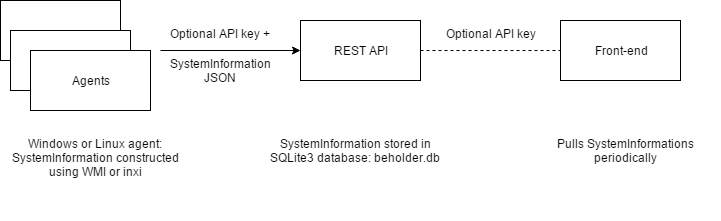
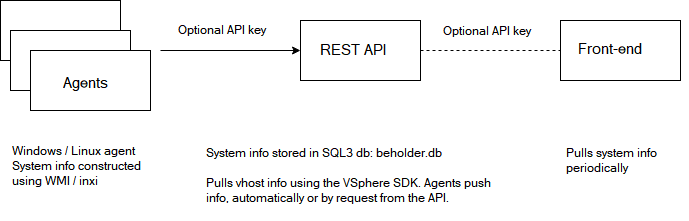
Updated readme, added startAsService.cmd

diff --git a/sizingservers.beholder.agent.linux/Program.cs b/sizingservers.beholder.agent.linux/Program.cs
@@ -16,7 +16,7 @@ namespace sizingservers.beholder.agent.linux {
             if (!_namedMutex.WaitOne()) return;
 
             Console.WriteLine("SIZING SERVERS LAB LINUX BEHOLDER AGENT");
-            Console.WriteLine("  Run this tool as root for dmidecode (fetches memory information) and make sure that ipmitool is installed.");
+            Console.WriteLine("  Run this tool as root for dmidecode (fetches memory information). Make sure that ipmitool and gawk is installed.");
             Console.WriteLine("  Reporting every " + Config.GetInstance().reportEvery + " to " + Config.GetInstance().endpoint);
             Console.WriteLine("  Listening to TCP port " + Config.GetInstance().requestReportTcpPort + " for \"requestreport\\r\\n\"");
             Console.WriteLine();

diff --git a/readme.md b/readme.md
@@ -1,38 +1,43 @@
 # sizingservers.beholder.agent
-    2017 Sizing Servers Lab  
+    2018 Sizing Servers Lab  
     University College of West-Flanders, Department GKG
 
 
 ![flow](readme_img/flow.png)
 
-This project is part of a computer hardware inventorization solution, together with sizingservers.beholder.api and sizingservers.beholder.frontend.
+This project is part of a computer hardware inventorization solution, together with sizingservers.beholder.dnfapi and sizingservers.beholder.frontend.
 
-Agents are installed on the computers you want to inventorize. These communicate with the REST API which stores hardware info. The front-end app visualizes that info.
+Agents are installed on the computers / VMs you want to inventorize. Tools like Puppet or Chef can help you automate this.
+
+An agent communicates with the REST API which stores hardware info. The front-end app visualizes that info. 
 
 ## Languages, libraries, tools, technologies used and overview
 The code is encapsulated in a **Visual Studio 2017** solution. The available agents are console applications.
 
-Communication to the API happens over HTTP. See the sizingservers.beholder.api documentation for an overview.
+Communication to the API happens over HTTP. See the sizingservers.beholder.dnfapi documentation for an overview.
 
 ### Agent selector
 The sizingservers.beholder.agent console app does nothing more than checking the OS and launching the correct agent.
 
-Runs using **dotnet core 2.0**, target framework netcoreapp2.0.
+Runs using **dotnet core 2.x**, target framework netcoreapp2.0.
 
 ### Linux agent
-Reads the standard output of inxi (<https://github.com/smxi/inxi>). Check the SystemInformationRetreiver class to see how this works.
+Reads the standard output of **inxi** (<https://github.com/smxi/inxi>). Check the SystemInformationRetreiver class to see how this works.
 
-Runs using **dotnet core 2.0**, target framework netcoreapp2.0.
+Runs using **dotnet core 2.x**, target framework netcoreapp2.0. Needs **gawk**, **ipmitool** and **dmidecode**.
 
 ### Windows agent
-Uses WMI to gather system info.
+Uses **WMI** to gather system info.
 
 Runs as a Windows executable, target framework net47.
 
 ### Shared functionality
-Contains the agent configuration functionality, the SystemInformations struct and a reporter class to periodically send JSON serialized info (**NewtonSoft.Json**) to the API over HTTP.
+Contains the agent configuration functionality, the SystemInformation class and a reporter class to periodically send JSON serialized info (**NewtonSoft.Json**) to the API over HTTP.
 
-Multi-targets netcoreapp2.0 and net47 to be usable in the Linux- and Windows agent both. Right-click the project and click *Edit...* to check this.
+Contains a request report handler as well: a TCP server that listens at a configurable port for the phrase "requestreport\r\n".  
+This functionality exists so we can have the best of both pushing and polling: push info at startup and once a e.g. day to the API. The API can request system info to determine if the agent is still alive.
+
+Multi-targets netcoreapp2.0 and net47 to be usable in the Linux- and Windows agent both. Open the solution using Visual Studio and right-click the project and click *Edit...* to check this. *Ignore the reference warning. Multi-targeting works as it should.*
 
 ## Build
 You need the dotnet SDK (<https://www.microsoft.com/net/learn/get-started/linux/ubuntu18-04>) to build the source and the .Net framework SDK (<https://www.microsoft.com/en-us/download/details.aspx?id=55168>) if building on Windows.
@@ -63,10 +68,14 @@ Execute *build_Windows.cmd* (or build_Linux.sh on Linux, do not forget chmod +x,
     
 ## Configure
 
+I recommend setting the *report frequency* not to, euhm, frequent. It is important that the agent registers itself to the API at startup, or at a time that the API is available should the API not be running.
+
+Leave the report frequency to the API *PollIntervalInSeconds* setting.
+
 ### sizingservers.beholder.agent.conf
     # URL to the REST API where info will be pushed to.
-    # endpoint http://x.x.x.x:0000
-    endpoint http://localhost:5000
+    # endpoint http://x.x.x.x:0000/systeminfromations
+    endpoint http://localhost/BeholderDnfApi/systeminformations
     
     # API Key
     apiKey <insert a SHA-512 of a piece of text here> 
@@ -78,20 +87,78 @@ Execute *build_Windows.cmd* (or build_Linux.sh on Linux, do not forget chmod +x,
     # reportEvery 5 hours
     reportEvery day
     
+    # Listens to this port for a "requestreport\r\n" from the api.
+    requestReportTcpPort 56575
+    
 Needs to be configured in the Linux and Windows Build folder both.
 
 ## Run
+Tested on Ubuntu 16.04 to 18.04 and Windows 10 / Server 2016.
+
 You need the .NET core runtime (included in the SDK) to run the build: 2.0 at the time of writing.
 
 Execute 
 
-    apt install gawk
+    apt install gawk ipmitool
 
-on Linux.
+on Linux (Ubuntu).
 
 You need the .NET framework on Windows, but you have that by default.
 
-Execute run.cmd or run.sh (do not forget chmod +x).
+Execute **run.cmd** or **run.sh** (do not forget chmod +x). Please note the Linux' dmidecode needs root rights.
 
 BETTER is to run the Linux- or Windows agent as a service.  
-For that you need to use either use **screen** for Linux or **NSSM** for Windows in the Linux or the Windows folder.
+For that you need to use either use **screen** for Linux or **NSSM** / **startAsService.cmd** for Windows in the Linux or the Windows folder.
+
+**startAsService.cmd**, run as administrator!:
+
+    REM 2018 Sizing Servers Lab
+    REM University College of West-Flanders, Department GKG 
+    echo sizingservers.beholder.agent for Windows start as service script
+    echo Please note that this script needs administrator privileges. If not 'ran as administrator', please do so.
+    echo ----------
+    nssm remove sizingservers.beholder.agent confirm
+    nssm install sizingservers.beholder.agent sizingservers.beholder.agent.windows.exe
+    nssm start sizingservers.beholder.agent
+    echo If you get system info on the frontend , everything is working. If not, check if you have set the endpoint in the config correctly or the Windows Event Viewer for errors, if any.
+    
+## Example output
+Arrays are formatted tab-space delimited values, for efficiency: no need to do conversions for dbs, like SQLite3, that cannot handle arrays.
+
+Notice that the *requestReportTcpPort* in in the output so the API knows what port to communicate to.
+
+### Linux agent
+
+    {
+      "hostname": "Dieter-Ubu",
+      "ips": "192.168.20.175\tfe80::250:56ff:fe92:1034",
+      "os": "Ubuntu 18.04 LTS - kernel ",
+      "system": "VMware product - VMware Virtual Platform",
+      "baseboard": "Intel model - 440BX Desktop Reference Platform",
+      "bios": "Phoenix v - 6.00 date - 04/05/2016",
+      "processors": "8 Single core Intel Xeon X7560s (-SMP-)",
+      "memoryModules": "Using dmidecode - you must be root to run dmidecode",
+      "disks": "ID-1 - /dev/sda model - Virtual_disk size - 10.7GB",
+      "nics": "VMware VMXNET3 Ethernet Controller driver - vmxnet3 v - 1.4.a.0-k port - 4000 bus-ID - 03:00.0",
+      "bmcIp": "ipmitool not installed or no BMC available",
+      "requestReportTcpPort": 56575
+    }
+    
+ *See what happens if you do not run as root?*
+ 
+ ### Windows agent
+ 
+     {
+      "hostname": "DELL-DIDJEEH.WORKGROUP",
+      "ips": "192.168.117.1",
+      "os": "Microsoft Windows 10 Pro 10.0.17134 Build 17134",
+      "system": "Dell Inc. - Latitude E5570",
+      "baseboard": "Dell Inc. - product: 06YF8N",
+      "bios": "1.18.6",
+      "processors": "Intel(R) Core(TM) i7-6820HQ CPU @ 2.70GHz",
+      "memoryModules": "8 GB - manufacturer: SK Hynix - part number: HMA41GS6AFR8N-TF (2133 Mhz) x2",
+      "disks": "476 GB - SK hynix SC308 SATA 512GB",
+      "nics": "Ethernet - Intel(R) Ethernet Connection (2) I219-LM (disconnected)\tWi-Fi - Intel(R) Dual Band Wireless-AC 8260 (connected)",
+      "bmcIp": "BMC not found",
+      "requestReportTcpPort": 56575
+    }
